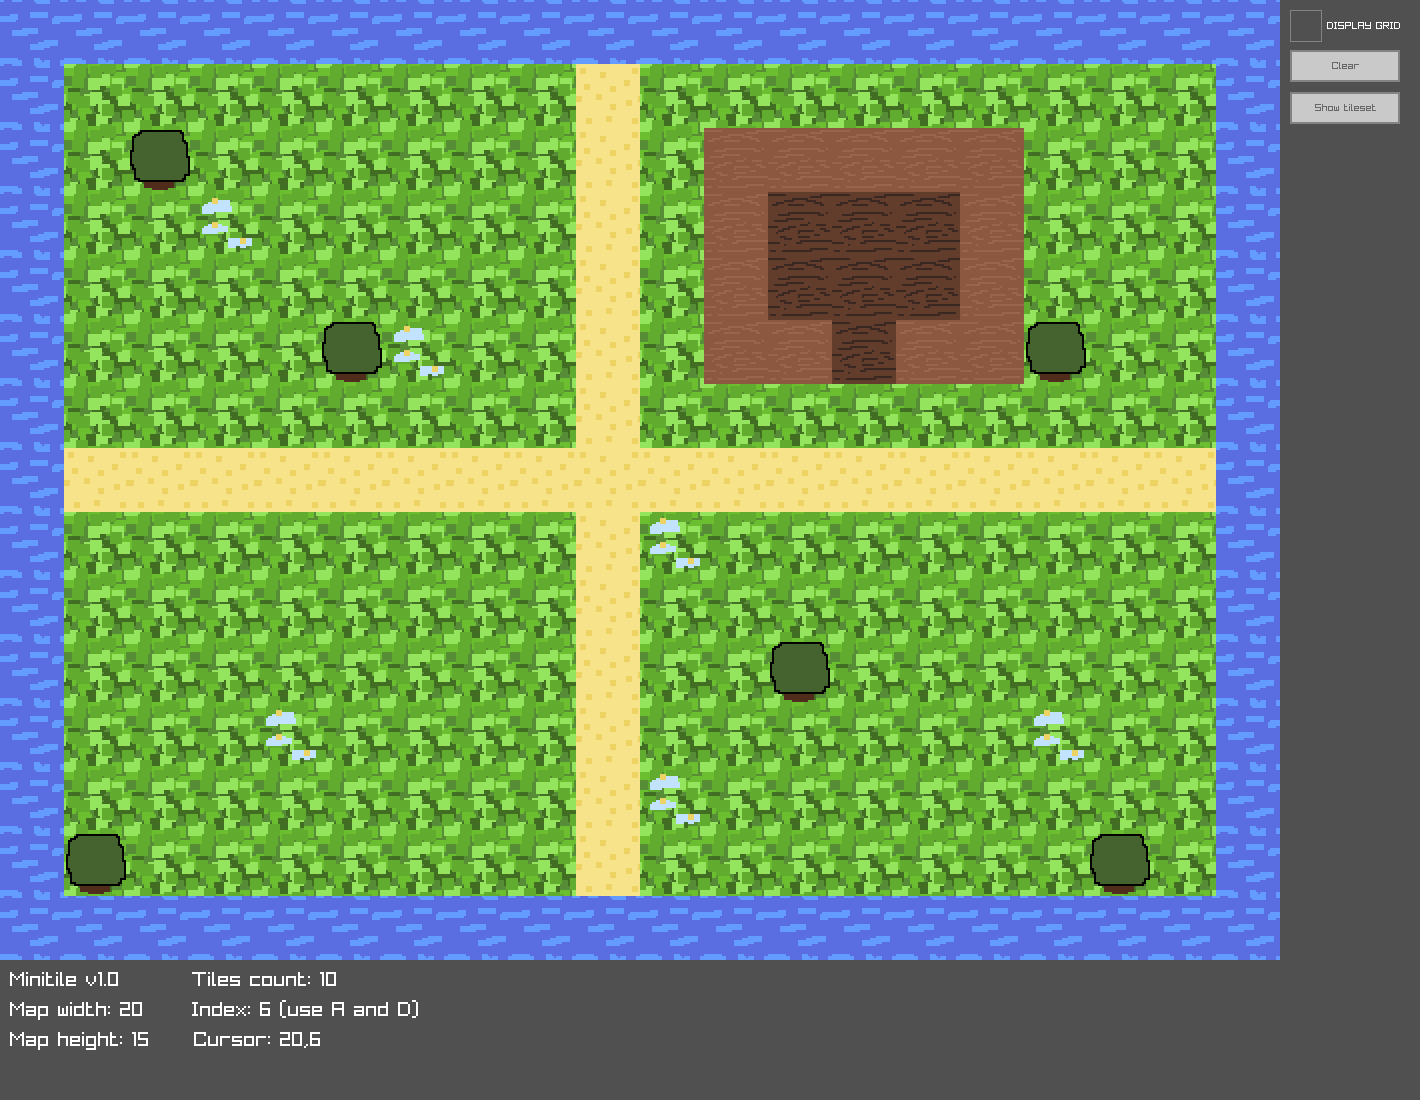
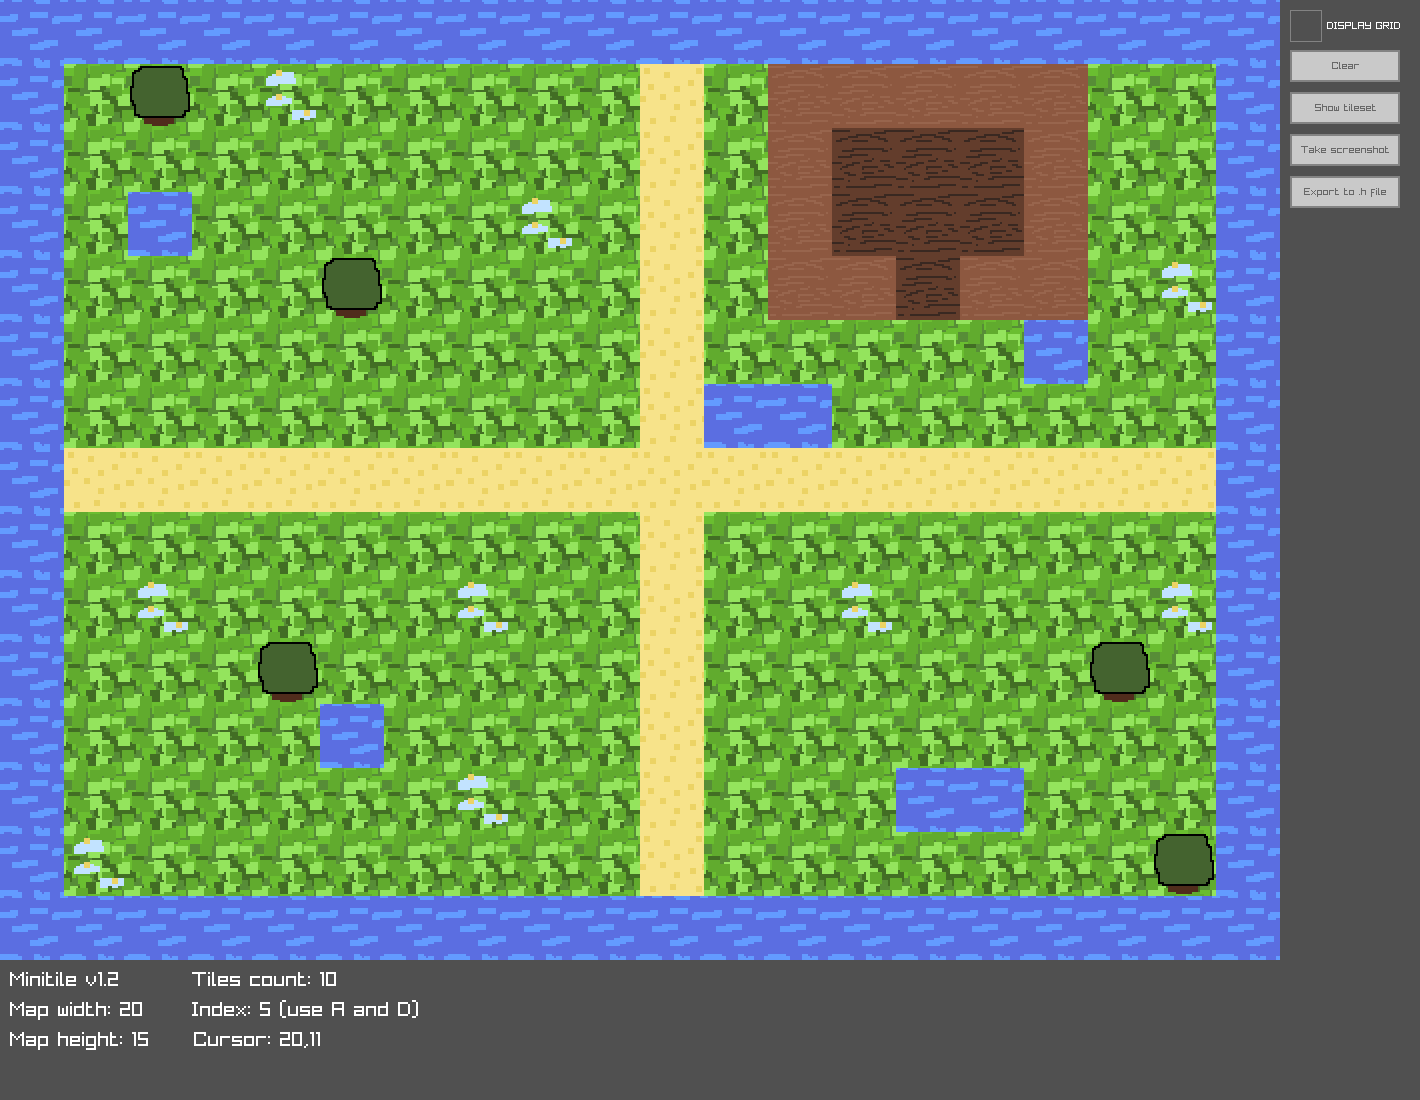
Minitile 1.2
- Add screenshot functionality

diff --git a/src/minitile.c b/src/minitile.c
@@ -14,7 +14,7 @@
 #include "third_party/raygui.h"
 
 #define ADDITIONAL_SIZE   140
-#define MINITILE_VERSION  1.1
+#define MINITILE_VERSION  1.2
 
 // Defines to fit the program
 #define mt_sheet_t          Texture2D
@@ -156,9 +156,12 @@ mt_map_t mt_get_map(void)
   return MAP;
 }
 
-void mt_take_screenshot(float x, float y, float width, float height, const char *filename)
+void mt_take_screenshot(const char *filename)
 {
-  Rectangle rec = { x, y, width, height };
+  Image image = LoadImageFromTexture(DATA.target.texture);
+  ImageFlipVertical(&image);
+  ExportImage(image, filename);
+  UnloadImage(image);
 }
 
 static void mt__update(void)
@@ -262,7 +265,7 @@ static void draw_gui_controls(void)
   // Take a screenshot of the map
   Rectangle ss_button = { (float)(GetScreenWidth() - ADDITIONAL_SIZE + 10), 134.0f, 110.0f, 32.0f };
   if (GuiButton(ss_button, "Take screenshot")) {
-    mt_take_screenshot(0, 0, DATA.grid_width*DATA.tile_size, DATA.grid_height*DATA.tile_size, "mt_map.png");
+    mt_take_screenshot("mt_map.png");
     DATA.screenshot_taken = true;
   }
 

diff --git a/src/minitile.h b/src/minitile.h
@@ -30,7 +30,7 @@ void mt_close(void);
 mt_map_t mt_get_map(void);
 
 void mt_export_map(mt_map_t map, const char *filename);
-void mt_take_screenshot(float x, float y, float width, float height, const char *filename);
+void mt_take_screenshot(const char *filename);
 #ifdef __cplusplus
 }
 #endif

diff --git a/README.md b/README.md
@@ -1,6 +1,6 @@
 # minitile
 A mini tilemap editor.
-![](./resources/screenshot2.png)
+![](./resources/screenshot.png)
 
 ## Features
 - Small: a compact editor great for prototyping maps
